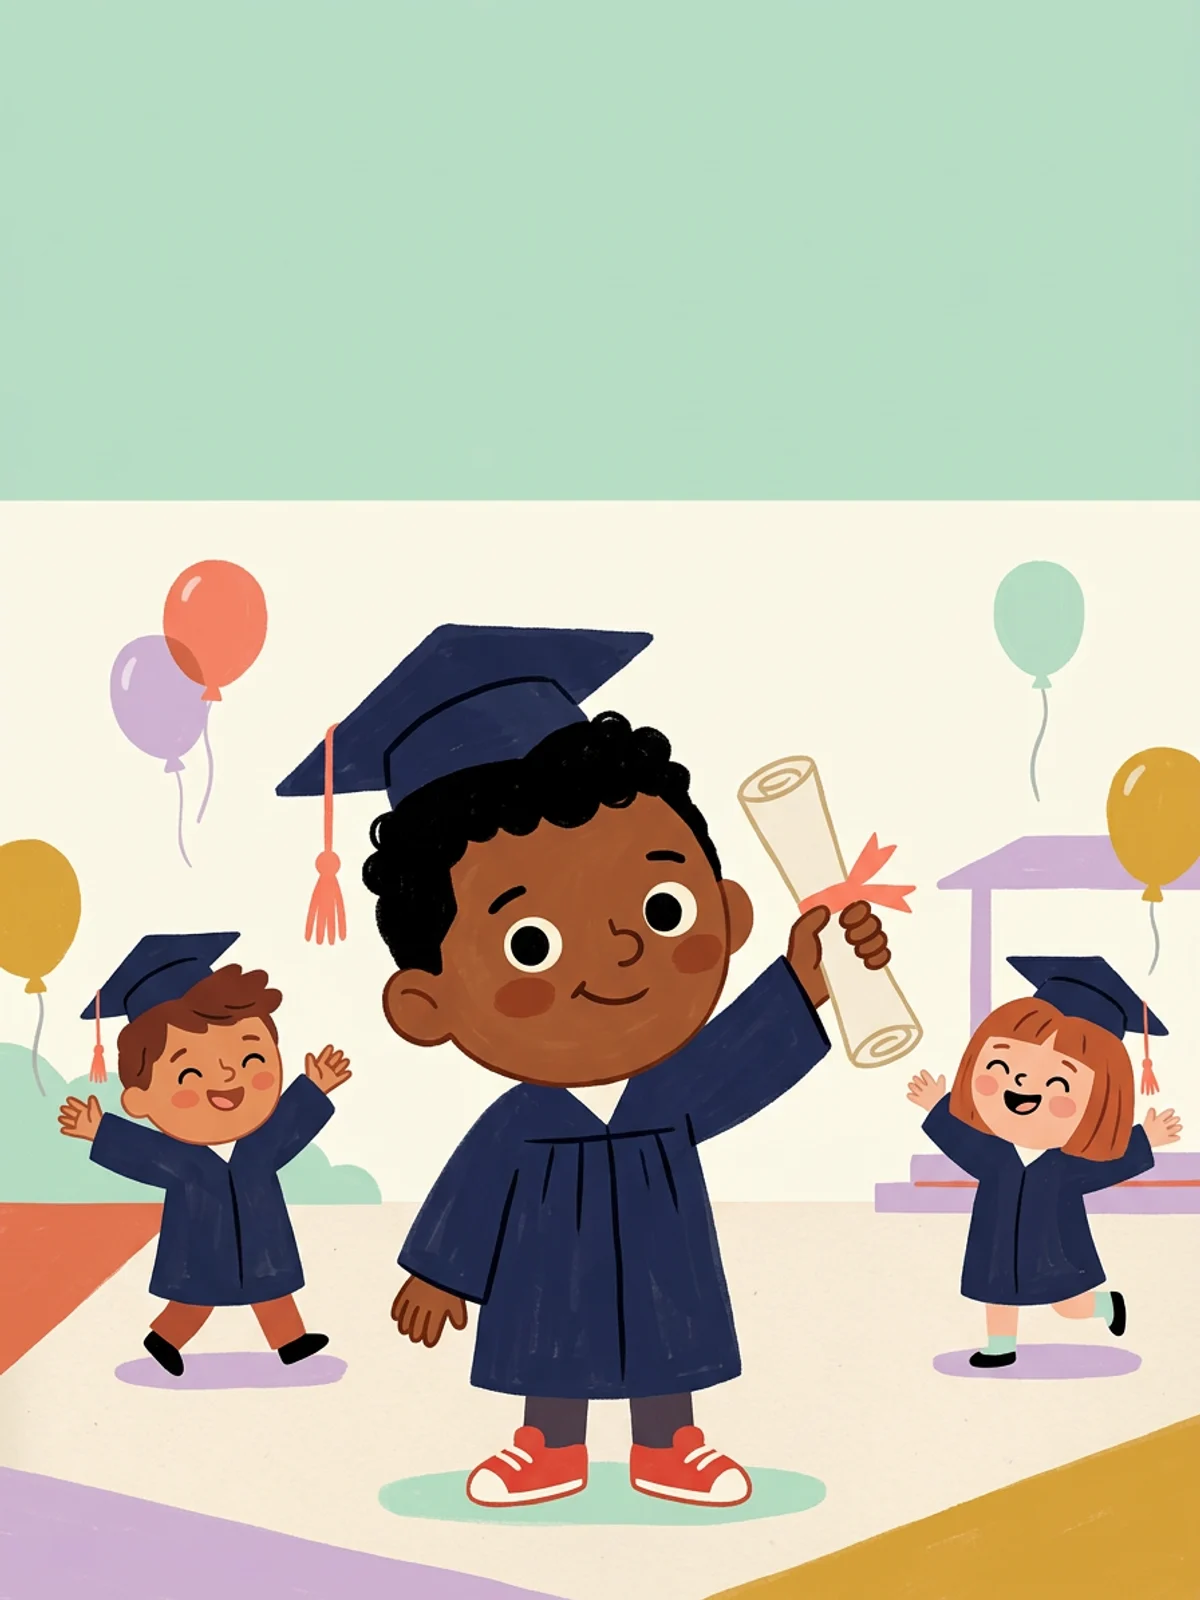
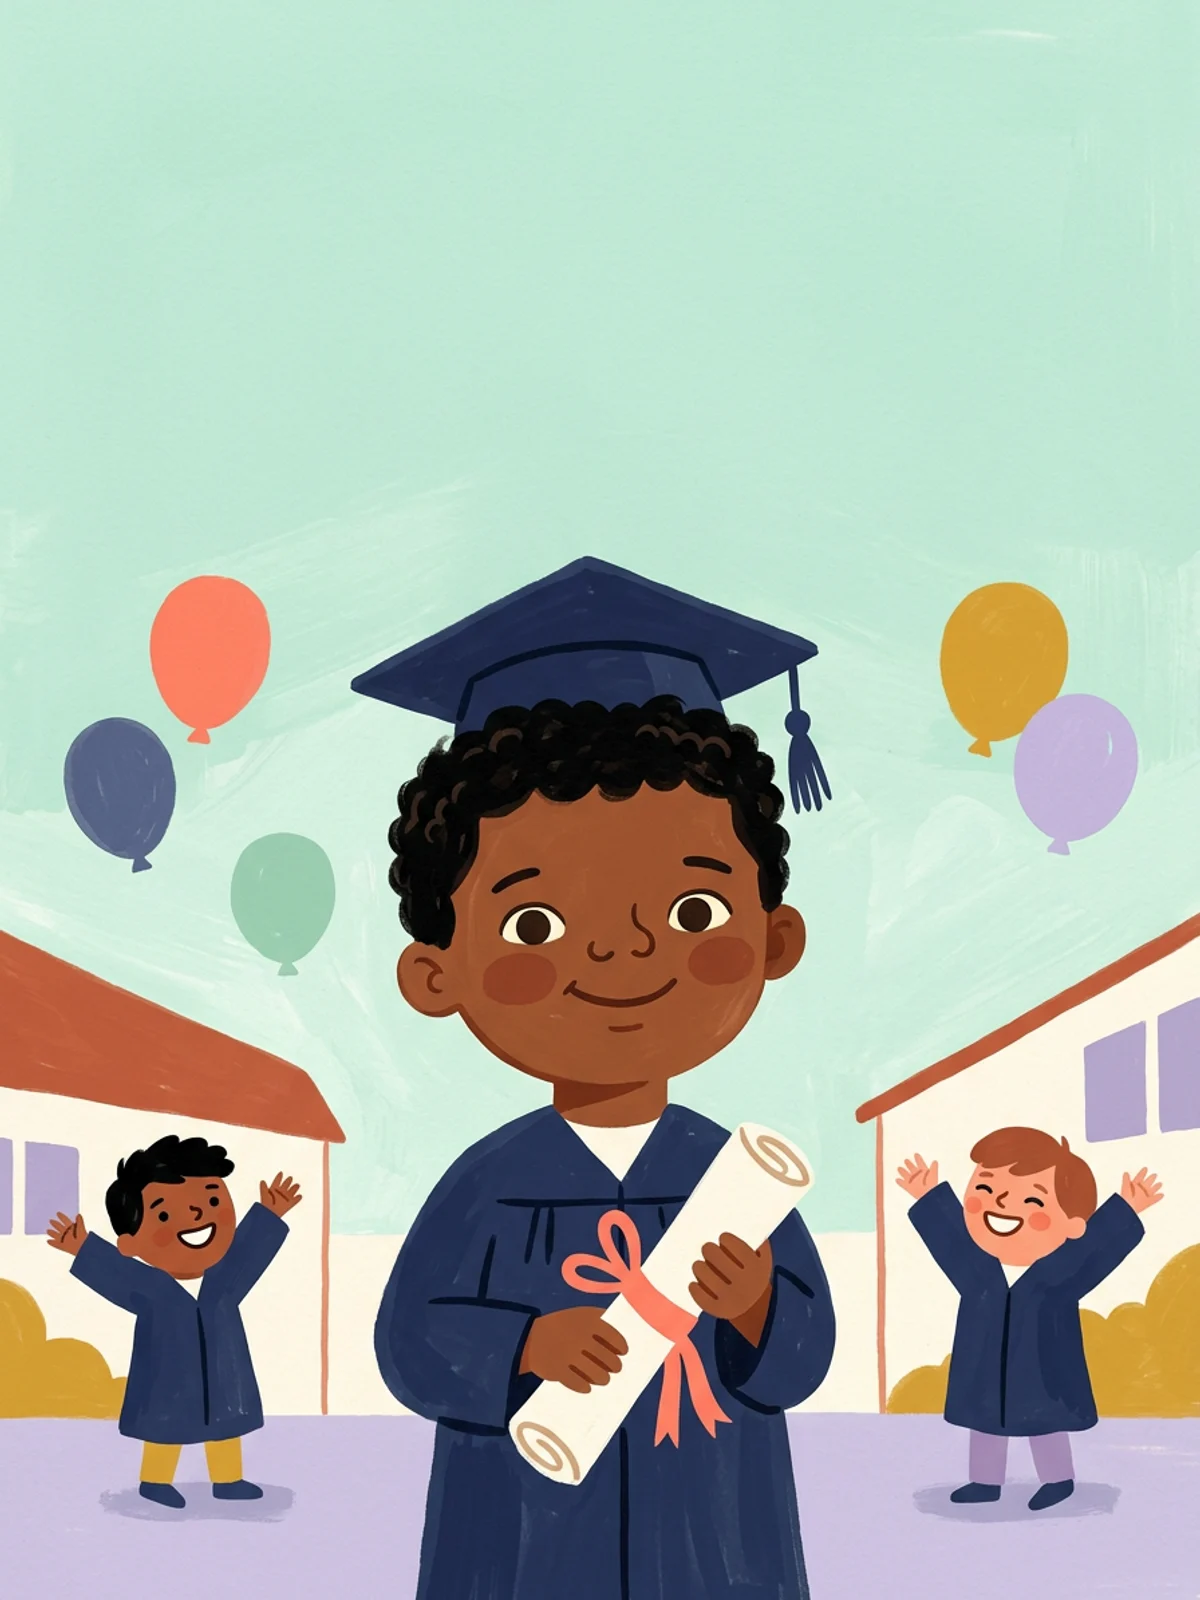
Portada de mi-graduacion: cielo continuo en lugar de la franja lisa (reintento)

diff --git a/packages/providers/scripts/generate-brand-images.ts b/packages/providers/scripts/generate-brand-images.ts
@@ -520,12 +520,16 @@ const JOBS: Job[] = [
     'cream',
     `Martina, 8 (straight dark-brown bob with bangs, freckles, olive skin) wears a simple white First Communion dress and holds a small white candle and a simple rosary in her hands, smiling calmly. Behind her, a simple small church exterior with a plain wooden door, and her family (a grandmother, her parents) standing close by. Warm natural daylight. No religious figures of any kind, no Jesus, no Virgin Mary, no saints, no angels, no halos, no rays of light, no glow, no host, no chalice.`,
   ),
-  cover(
-    'mi-graduacion',
-    GOUACHE,
-    'mint',
-    `Benja, 6 (short black coily hair, warm dark-brown skin, red sneakers) wears a tiny navy graduation gown and cap and holds a rolled diploma tied with a coral ribbon, beaming. Around him in a simple school patio, two classmates in small gowns cheer, and a few flat balloons float. Blank diploma with no writing.`,
-  ),
+  // Sin franja lisa arriba: cielo suave y continuo que se funde con la escena (revisión de portada).
+  {
+    ...cover(
+      'mi-graduacion',
+      GOUACHE,
+      'mint',
+      `Benja, 6 (short black coily hair, warm dark-brown skin, red sneakers) wears a tiny navy graduation gown and cap and holds a rolled diploma tied with a coral ribbon, beaming. Around him in a simple school patio, two classmates in small gowns cheer, and a few flat balloons float. Blank diploma with no writing.`,
+    ),
+    prompt: `${GOUACHE}\nPicture-book cover illustration, portrait 3:4. The top third is a calm, continuous soft pale-mint sky painted in the same gouache brush texture, with no objects in it (space for the title); it blends naturally into the scene below, with no hard edge, no flat band, no frame and no horizontal dividing line. Benja, 6 (short black coily hair, warm dark-brown skin, red sneakers) wears a tiny navy graduation gown and cap and holds a rolled diploma tied with a coral ribbon, beaming. Around him in a simple school patio, two classmates in small gowns cheer, and a few flat balloons float in the lower part of the sky. Blank diploma with no writing.\nThe character fills 40-60% of the cover, looking at the viewer.\n${BLACKLIST}`,
+  },
   // ---- Profesionales (Minimalismo gráfico, chico genérico) -------------------------------------
   cover(
     'las-letras-que-bailan',
